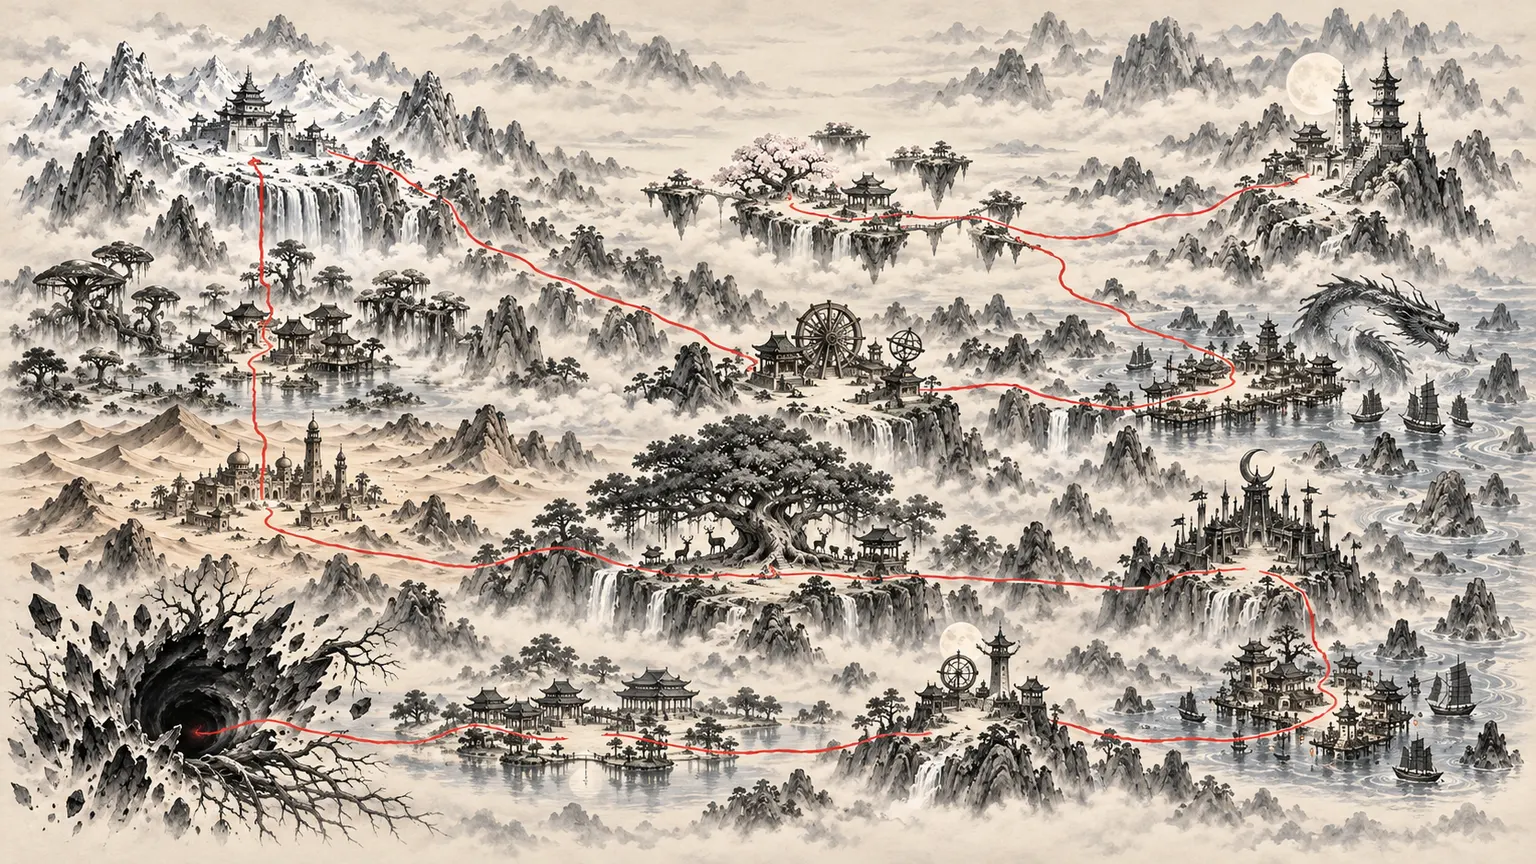
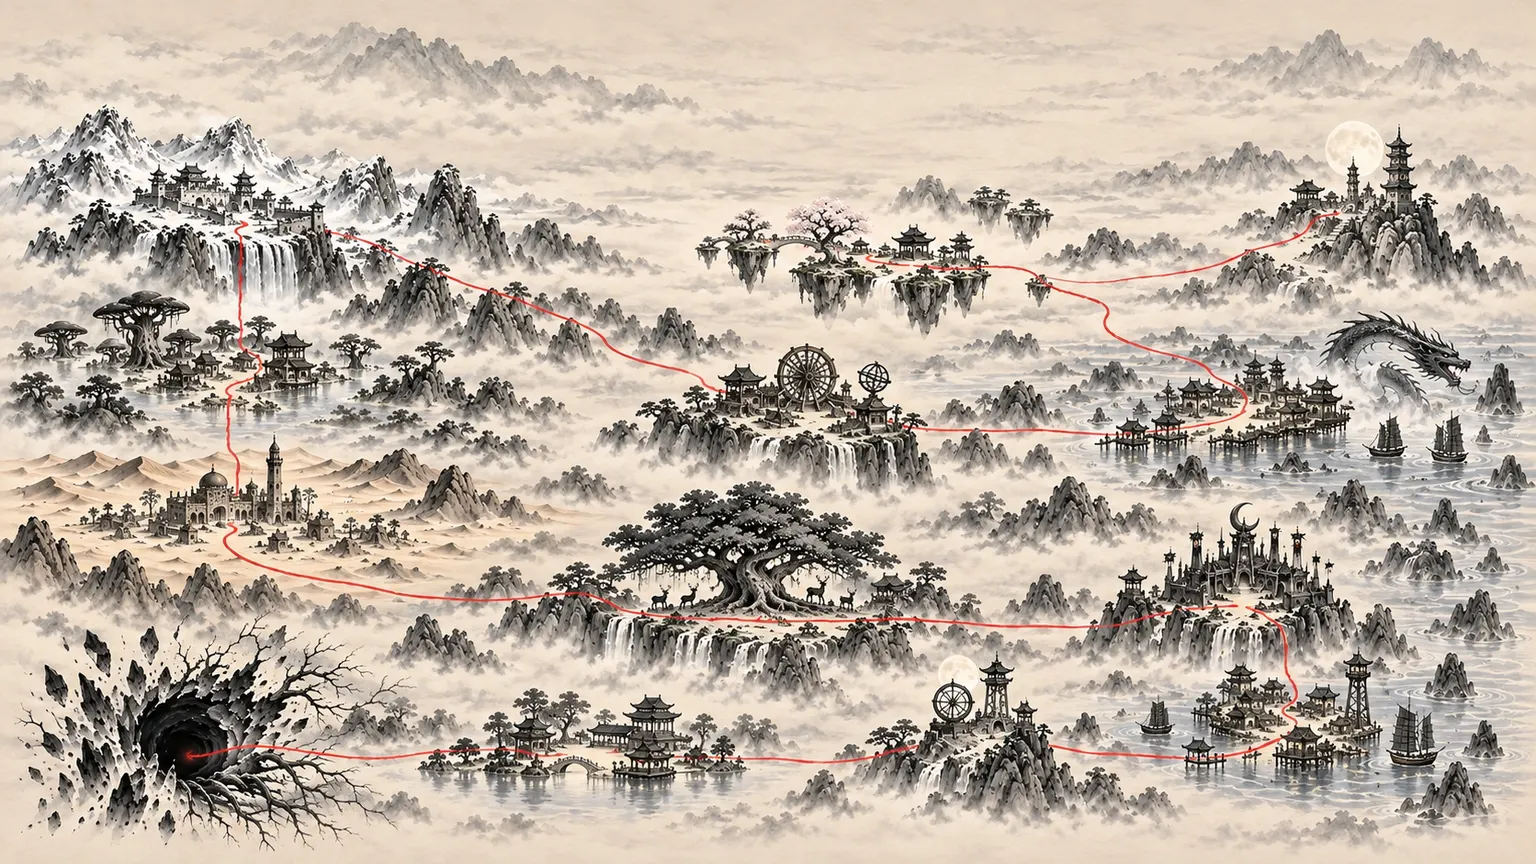
feat(journey): repaint the map with a calmer top band
The first full-frame painting crowded the top bar and read as busy. A new
16:9 painting keeps the top band to mist, leaves quiet washes between the
thirteen plazas and moves the pins onto the new plazas. Locked pins get a
paper ring and a darker lock badge so they stand off dark ink washes.

diff --git a/src/ui/screens/journey.ts b/src/ui/screens/journey.ts
@@ -21,11 +21,11 @@ import { journeyFocus } from '../player-focus';
 
 /** Plaza of each land on art/ui/map.webp, as fractions of the image. */
 const PINS: Record<SectId, [number, number]> = {
-  thienquang: [0.85, 0.202], hoalinh: [0.536, 0.234], hailong: [0.8, 0.42],
-  thienco: [0.591, 0.444], bangphach: [0.168, 0.194], docvu: [0.173, 0.388],
-  kimsa: [0.177, 0.59], vanthu: [0.509, 0.655], huyetsat: [0.818, 0.662],
-  uminh: [0.859, 0.808], tinhtu: [0.627, 0.824], thienhuong: [0.391, 0.848],
-  hukhong: [0.132, 0.84],
+  thienquang: [0.88, 0.26], hoalinh: [0.57, 0.3], hailong: [0.79, 0.47],
+  thienco: [0.52, 0.46], bangphach: [0.14, 0.27], docvu: [0.2, 0.45],
+  kimsa: [0.14, 0.58], vanthu: [0.48, 0.65], huyetsat: [0.8, 0.66],
+  uminh: [0.84, 0.83], tinhtu: [0.63, 0.82], thienhuong: [0.38, 0.86],
+  hukhong: [0.12, 0.85],
 };
 
 const FAMILIES = Object.keys(FAMILY_INFO) as ChallengeFamily[];

diff --git a/src/styles/screens.css b/src/styles/screens.css
@@ -504,10 +504,11 @@ textarea.code-box:focus { border-color: var(--accent); }
   white-space: nowrap;
 }
 /* Locked lands keep the route visible while clearly reading as closed. */
+/* Locked pins sit on dark ink washes; a crisp paper ring lifts them off the painting. */
 .land-pin.locked { color: var(--ink-2); }
-.land-pin.locked .lp-emblem { box-shadow: 0 0 0 2px var(--muted); }
+.land-pin.locked .lp-emblem { box-shadow: 0 0 0 2px var(--muted), 0 0 0 4px color-mix(in srgb, var(--sheet) 85%, transparent); }
 .land-pin.locked .lp-emblem img { filter: grayscale(1) brightness(0.62); }
-.land-pin.locked .lp-badge { background: var(--muted); }
+.land-pin.locked .lp-badge { background: var(--ink-2); }
 .land-pin.locked .lp-name { color: var(--ink-2); background: color-mix(in srgb, var(--sheet) 78%, transparent); }
 
 .modal.land-sheet {

diff --git a/docs/decisions/journey-map.md b/docs/decisions/journey-map.md
@@ -20,17 +20,32 @@ Trong ba bản vẽ, chọn bản thứ ba vì:
 - giữ tuyết phía tây bắc, biển phía đông, hoang mạc phía tây và vết nứt Hư Không ở góc tây nam;
 - Độc Vụ Cốc có rừng nấm dễ nhận ra.
 
+## Vẽ lại lần hai: bớt chi tiết, thoáng dải trên
+
+Bản 16:9 đầu tiên phủ kín khung nhưng vẽ nhiều chi tiết và để núi, tháp chạm lên dải trên, khiến thanh trên
+cùng và tiêu đề bị chìm. Vẽ lại với yêu cầu chặt hơn:
+
+- dải trên 30% chỉ có sương, mây và núi xa rất mờ; không nhà cửa, đảo hay đường đỏ;
+- 13 quảng trường nằm trong khoảng y 32 đến 90% của tranh, cách nhau tối thiểu 18% bề ngang;
+- khoảng 60% mặt tranh là mảng yên tĩnh (sương, nước, giấy trống); đường đỏ mảnh, đi bằng những cung dài.
+
+Trong ba bản vẽ mới, lại chọn bản thứ ba: dải trên gần như trống, đủ 13 vùng đúng thứ tự, đường đỏ đơn tuyến
+không tự cắt. Bản một để tháp Thiên Quang và núi tuyết Băng Phách chạm vào dải trên, đường đỏ chỉ quét mép
+đảo Hoa Linh; bản hai dày đặc chi tiết và đường đỏ bỏ sót Hải Long.
+
 ## Phương án bị loại
 
 - Giữ tranh 3:2 và thêm một tranh nền riêng phía sau: khó giấu đường nối giữa hai tranh, nhãn vẫn chật.
 - Vẽ nối dài tranh cũ ra hai bên: công cụ vẽ hiện có không có chế độ vẽ nối theo vùng che.
-- Bản vẽ thứ nhất: Độc Vụ Cốc khó nhận ra.
-- Bản vẽ thứ hai: đường đi từ Hoa Linh sang thẳng Thiên Cơ, Hải Long thành nhánh cụt.
+- Bản vẽ thứ nhất (lần một): Độc Vụ Cốc khó nhận ra.
+- Bản vẽ thứ hai (lần một): đường đi từ Hoa Linh sang thẳng Thiên Cơ, Hải Long thành nhánh cụt.
 
 ## Hệ quả
 
 - Mốc tương tác (`PINS` trong `src/ui/screens/journey.ts`) là phần trăm của tranh 16:9 và phải nằm đúng quảng
   trường. Thiên Quang và Băng Phách nằm sát mép trên, nên mốc đặt ở đoạn đường ngay dưới quảng trường để không
-  chạm thanh trên cùng.
+  chạm thanh trên cùng. Mốc Độc Vụ hạ thấp hơn quảng trường một chút để nhãn Băng Phách không đè lên huy hiệu.
+- Mốc khoá thêm một vòng giấy quanh huy hiệu và đổi nền huy hiệu khoá sang mực đậm hơn để nổi trên các mảng
+  tranh tối (Vạn Thú, Huyết Sát, Hư Không).
 - Thứ tự mốc lấy từ `CHAPTERS`; UI không có tuyến riêng.
 - Thay tranh thì duyệt lại đường nối, toạ độ mốc và khoảng cách giữa mốc với thanh trên cùng.
